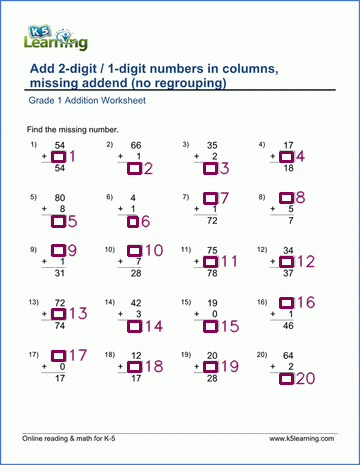
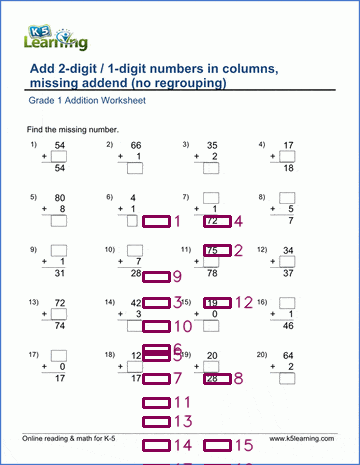
make roboflow inference and local inference scripts api compatible

diff --git a/roboflow_inference.py b/roboflow_inference.py
@@ -1,6 +1,9 @@
 from inference_sdk import InferenceHTTPClient
-from dotenv import load_dotenv
 from time import time
+import supervision as sv
+import numpy as np
+import base64
+import cv2
 import sys
 import os
 
@@ -9,7 +12,7 @@ client = InferenceHTTPClient(
     api_key=os.getenv("ROBOFLOW_API_KEY")
 )
 
-def run_inference(image_path):
+def run_inference(image_path, output_image_path):
     start_time = time()
     result = client.run_workflow(
         workspace_name="simon0302010",
@@ -23,6 +26,7 @@ def run_inference(image_path):
     print(f"roboflow inference took {round(time() - start_time, 2)} seconds.")
     bounding_box_list = []
     bounding_box_dict = {}
+    bounding_box_array = []
     for idx, bounding_box in enumerate(result[0]["predictions"]["predictions"]):
         if bounding_box["confidence"] > 0.2:
             new_bounding_box = {}
@@ -37,9 +41,40 @@ def run_inference(image_path):
             new_bounding_box_list.append(new_bounding_box["xmax"])
             new_bounding_box_list.append(new_bounding_box["ymax"])
             bounding_box_dict[str(idx + 1)] = new_bounding_box_list
-    return(bounding_box_list, bounding_box_dict)
+    for bounding_box in bounding_box_dict:
+        bounding_box_array.append(bounding_box_dict[bounding_box])
+    bounding_box_array = np.array(bounding_box_array)
+    
+    image = cv2.imread(image_path)
+
+    bounding_box_annotator = sv.BoxAnnotator()
+    label_annotator = sv.LabelAnnotator(text_position=sv.Position.CENTER_RIGHT, text_scale=0.4, text_padding=2)
+
+    detections = sv.Detections(
+        xyxy=bounding_box_array,
+        class_id=np.zeros((len(bounding_box_array),), dtype=int)
+    )
+
+    annotated_image = bounding_box_annotator.annotate(
+        scene=image.copy(), detections=detections
+    )
+
+    labels = []
+    for i in range(len(detections)):
+        labels.append(str(i + 1))
+
+    if labels:
+        annotated_image = label_annotator.annotate(
+            scene=annotated_image, detections=detections, labels=labels
+        )
+
+    cv2.imwrite(output_image_path, annotated_image)
+    _, buffer = cv2.imencode('.png', annotated_image)
+    annotated_image_base64 = base64.b64encode(buffer).decode('utf-8')
+    return bounding_box_dict, annotated_image_base64
 
 if __name__ == "__main__":
-    bounding_box_list, bounding_box_dict = run_inference(sys.argv[1])
-    for bounding_box in bounding_box_dict:
-        print(bounding_box_dict[bounding_box])
+    inference_result, image_base64 = run_inference(sys.argv[1], "image.png")
+    for bounding_box in inference_result:
+        print(inference_result[bounding_box])
+    print(image_base64[:100])

diff --git a/backend.py b/backend.py
@@ -23,10 +23,10 @@ gemini_tools = extra_data.tools
 
 if inference == "roboflow":
     print("using roboflow inference")
-    import roboflow_inference
+    from roboflow_inference import run_inference
 elif inference == "local":
     print("using local inference")
-    import local_inference
+    from local_inference import run_inference
 else:
     print('please set inference to either "roboflow" or "local"')
 
@@ -60,13 +60,9 @@ def add_bounding_boxes(bounding_box_data, image_path, output_filename):
     cv2.imwrite(output_filename, image)
 
 def run_gemini():
-    if inference == "roboflow":
-        inference_result_list, inference_result = roboflow_inference.run_inference(temp_worksheet_file_path)
-        add_bounding_boxes(inference_result_list, temp_worksheet_file_path, temp_worksheet_file_path)
-    elif inference == "local":
-        inference_result = local_inference.run_inference(temp_worksheet_file_path, temp_worksheet_file_path)
-    with open(temp_worksheet_file_path, "rb") as f:
-        worksheet_bytes = f.read()
+    inference_result, image_base64 = run_inference(temp_worksheet_file_path, temp_worksheet_file_path)
+    #with open(temp_worksheet_file_path, "rb") as f:
+    #    worksheet_bytes = f.read()
 
     gemini_contents = [
         types.Content(
@@ -74,7 +70,7 @@ def run_gemini():
             parts=[
                 types.Part.from_bytes(
                     mime_type="image/png",
-                    data=worksheet_bytes
+                    data=image_base64
                 ),
                 types.Part.from_text(text=(gemini_prompts[0] + str(inference_result))),
                 #types.Part.from_text(text="Create these bounding boxes: " + str(inference_result)),

diff --git a/local_inference.py b/local_inference.py
@@ -1,4 +1,5 @@
 import cv2
+import base64
 import supervision as sv
 from ultralytics import YOLO
 import dataclasses
@@ -40,6 +41,8 @@ def run_inference(image_path, output_image_path):
             scene=annotated_image, detections=detections, labels=labels
         )
     cv2.imwrite(output_image_path, annotated_image)
+    _, buffer = cv2.imencode('.png', annotated_image)
+    annotated_image_base64 = base64.b64encode(buffer).decode('utf-8')
     
     bounding_boxes = dataclasses.fields(detections)[0]
     bounding_boxes = getattr(detections, bounding_boxes.name)
@@ -50,9 +53,10 @@ def run_inference(image_path, output_image_path):
             bounding_boxes_temp.append(round(int(temp_coordinate)))
         bounding_boxes_dict[str(idx + 1)] = (bounding_boxes_temp)
     print(f"local inference took {round(time() - start_time, 2)} seconds.")
-    return bounding_boxes_dict
+    return bounding_boxes_dict, annotated_image_base64
 
 if __name__ == "__main__":
-    inference_result = run_inference(sys.argv[1], "image.png")
+    inference_result, image_base64 = run_inference(sys.argv[1], "image.png")
     for bounding_box in inference_result:
         print(inference_result[bounding_box])
+    print(image_base64[:100])
